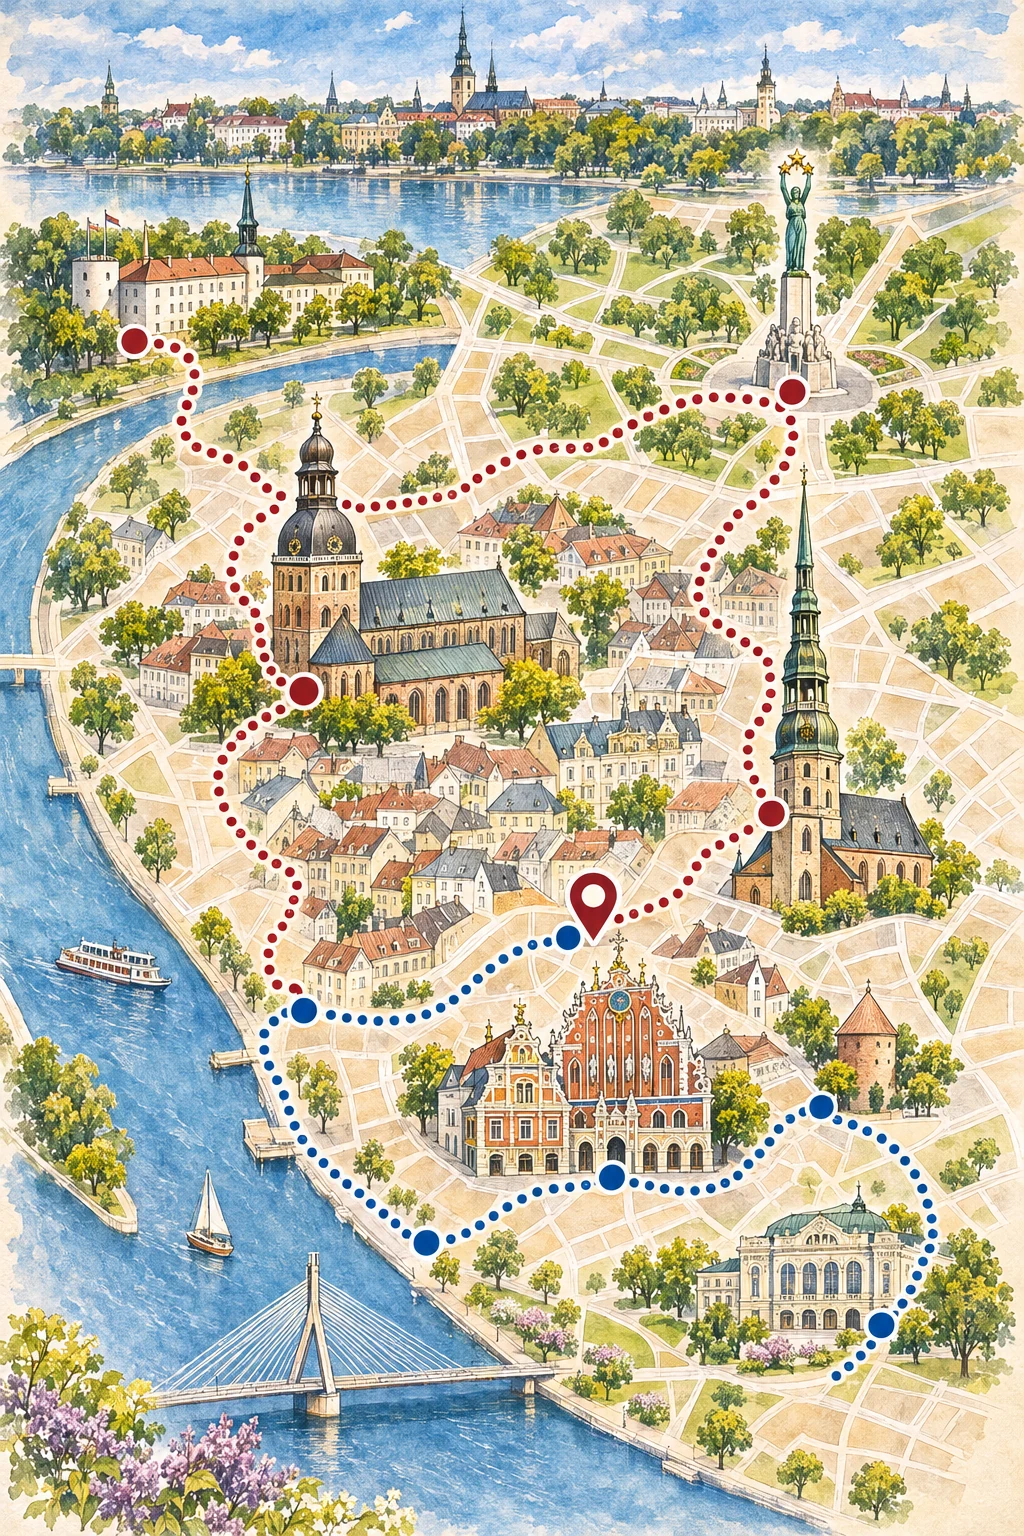
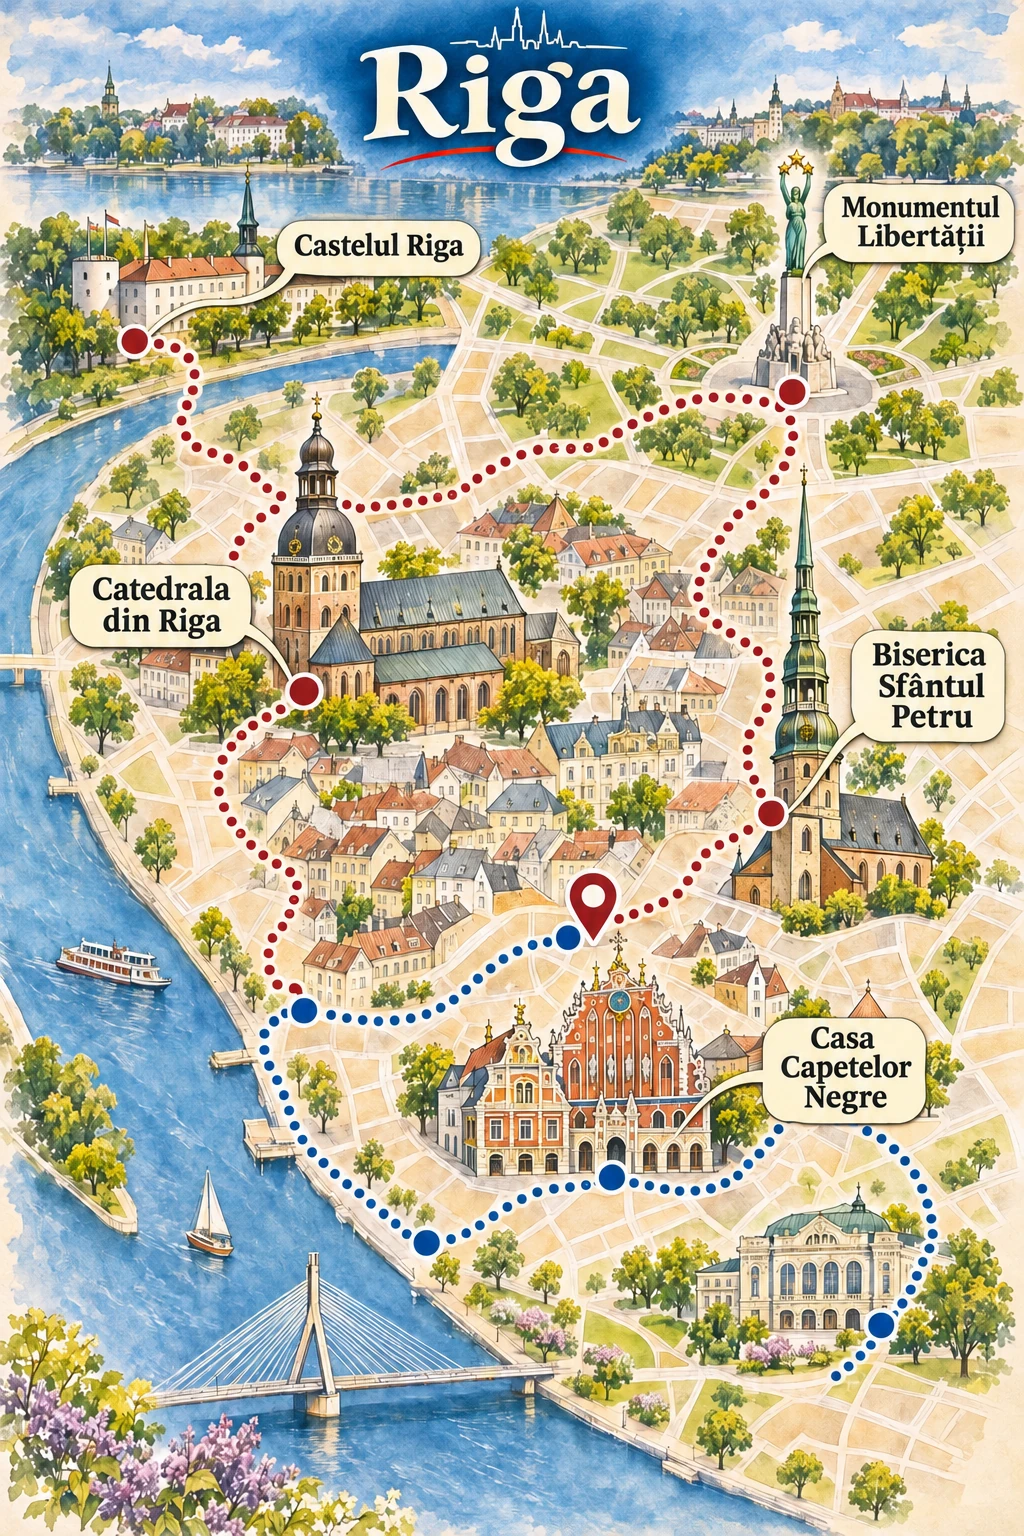
Add attraction labels to Riga guide map

Changed region(s): [[0.0, 0.0, 1.0, 1.0]]

diff --git a/ILUSTRATII.md b/ILUSTRATII.md
@@ -45,9 +45,10 @@ Se adaugă numele obiectivelor direct pe hărțile existente, în stilul aprobat
 - Marsilia
 - Glasgow
 - Helsinki
+- Riga
 
 Harta originală pentru Praga avea deja etichete. Celelalte orașe din `assets/guides-prague-style/` necesită în continuare verificare și prelucrare. Actualizează această listă în același commit cu fiecare lot nou.
 
-Ilustrațiile fără etichete sunt păstrate în istoricul Git: pentru Roma și Barcelona folosește fișierul de la commitul `14f016a`, iar pentru Paris, Londra, Lisabona, Berlin și Bruxelles de la `508e691`. Pentru Budapesta, Atena, Veneția, Amsterdam, Viena, Milano, Madrid, Bologna, Lyon, Porto, Varșovia, Copenhaga, Edinburgh, Bruges, Köln, Dublin, Cracovia, Stockholm, Chișinău, Bratislava, Sofia, Oslo, Bari, Napoli, Sevilla, Istanbul, Dubrovnik, Palermo, Pisa, Florența, Valencia, Nisa, Marsilia, Glasgow și Helsinki se pot folosi originalele de la `48efdd5`. Copii locale sunt în `/workspace/guide-batch/original-illustrations` când acel director este disponibil. Păstrează imaginile originale pentru quiz.
+Ilustrațiile fără etichete sunt păstrate în istoricul Git: pentru Roma și Barcelona folosește fișierul de la commitul `14f016a`, iar pentru Paris, Londra, Lisabona, Berlin și Bruxelles de la `508e691`. Pentru Budapesta, Atena, Veneția, Amsterdam, Viena, Milano, Madrid, Bologna, Lyon, Porto, Varșovia, Copenhaga, Edinburgh, Bruges, Köln, Dublin, Cracovia, Stockholm, Chișinău, Bratislava, Sofia, Oslo, Bari, Napoli, Sevilla, Istanbul, Dubrovnik, Palermo, Pisa, Florența, Valencia, Nisa, Marsilia, Glasgow, Helsinki și Riga se pot folosi originalele de la `48efdd5`. Copii locale sunt în `/workspace/guide-batch/original-illustrations` când acel director este disponibil. Păstrează imaginile originale pentru quiz.
 
 Nu modifica funcționalitatea de căutare a zborurilor în cadrul acestei activități.
